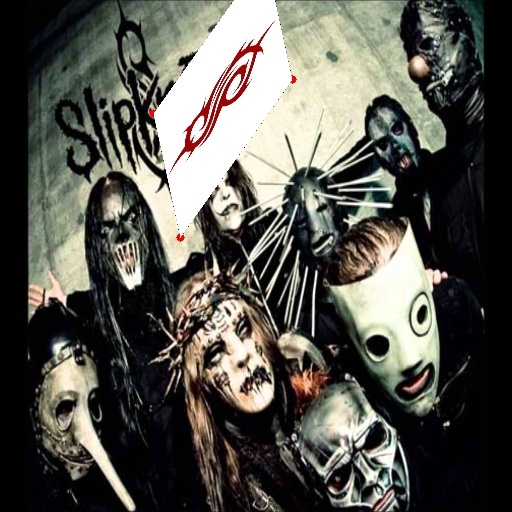
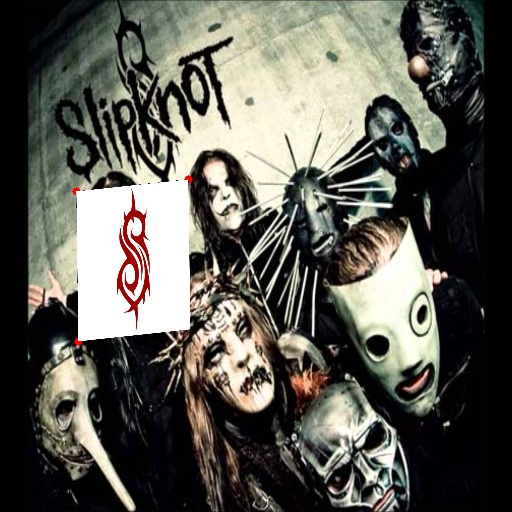
mas modificaciones

Changed region(s): [[0.125, 0.0, 0.5938, 0.6875]]

diff --git a/vision/TP3_final.py b/vision/TP3_final.py
@@ -5,34 +5,44 @@ import numpy as np
 import cv2
 import copy
 from sys import argv
+#pop up---------------------------------------------------
+import ctypes  # para el mensaje de info
+tutorial = 'Seleccionar puntos en el siguiente orden:\n\n\n Primer Punto: Esquina superior izquierda. \n\n Segundo Punto: Esquina superior derecha \n\n Tercer Punto: Esquina inferior izquierda \n\n Cuarto Punto: Esquina inferior derecha. '
 
-if len(argv) >= 3:
+def Mbox(title, text, style):
+    return ctypes.windll.user32.MessageBoxW(0, text, title, style)
+Mbox('INFO', tutorial, 0)
+#fin pop up ----------------------------------------------
+
+if len(argv) >= 2:
     #por si se quiere poner otra imagen, poner el path o ubicarla en el directorio
-    imagen_entrada1, imagen_entrada2 = argv[1], argv[2]
+    imagen_entrada1 = argv[1]
 else:
     #imagen por default
-    imagen_entrada1, imagen_entrada2 = 'slipknot.jpg', 'logo.jpg'
+    imagen_entrada1 = 'slipknot.jpg'
+
 
 #colores
 blue = (255, 0, 0); green = (0, 255, 0); red = (0, 0, 255)
 H, W = 512, 512   #alto y ancho por defecto
 count  = 0        #contador de circulos en 0
 points = []       #caja para guardar puntos
-coords = [[-1,-1],[-1,-1],[-1,-1]] #coordenadas iniciales
+coords = [[-1,-1], [-1,-1], [-1,-1], [-1,-1]] #coordenadas iniciales
 
 #funcion para dibujar 3 puntos que se guardan
-def draw3dots(event, x, y, flags, param):
+def draw4dots(event, x, y, flags, param):
     global count, points, coords #toma el valor de las variables globales
     if event == cv2.EVENT_LBUTTONDOWN:
-        if (count == 3):  #si cuente tres circulos reseteo el mundo
+        if (count == 4):  #si cuente cuatro circulos reseteo el mundo
             param[1] = copy.deepcopy(param[0])
             count = 0
         #toma coordenadas de los clicks
+        coords[3] = coords[2]
         coords[2] = coords[1]
         coords[1] = coords[0]
         coords[0] = x, y
         #abajo las guardo (float)
-        points = np.array([coords[2], coords[1], coords[0]]).astype(np.float32)
+        points = np.array([coords[3], coords[2], coords[1], coords[0]]).astype(np.float32)
         cv2.circle(param[1], (x, y), 4, red, -1) #dibuja circulos
         count = count + 1                        #contador de circulos
 
@@ -55,33 +65,31 @@ def overlay(warp, original):
     img2_fg = cv2.bitwise_and(original, original, mask = mask_not)  #hace and con la original y la mascara de unos
     dst = cv2.add(img1_bg, img2_fg)                                 #suma
     cv2.imencode('.jpg', dst)[1].tofile('bastaaa.jpg')              #guardo la nueva porque si
-    cv2.imshow('Imagenes fusionadas', dst)                          #la muestroo
+    cv2.imshow('Imagen rectificada', dst)                           #la muestroo
 
 #captura y redimension de imagenes 
 img_orig = cv2.resize((cv2.imread(imagen_entrada1)), (H, W))
-img_aux  = cv2.resize((cv2.imread(imagen_entrada2)), (H, W))
 
 #copio la original y la guardo
 img_copy = copy.deepcopy(img_orig)
 param = [img_orig, img_copy] #creo un paquete en donde guardar una original y una copia
 
 #muestro en pantalla
-cv2.imshow('Imagen a fusionar', img_aux)
-cv2.imshow('Marcar 3 Puntos y apretar "g"', param[1])
+cv2.imshow('Marcar 4 Puntos, con "g" guardar', param[1])
 #activo callback y le paso la funcion + la original y la copia || preguntar porque anda acá y no necesariamente en el while*
-cv2.setMouseCallback('Marcar 3 Puntos y apretar "g"', draw3dots, param)
+cv2.setMouseCallback('Marcar 4 Puntos, con "g" guardar', draw4dots, param) #ya entendí porque se puede escribir aca y no en el while
 
 #loop
 while (1):
-    cv2.imshow('Marcar 3 Puntos y apretar "g"', param[1])                             #siempre muestro la copia, en donde trabajo
+    cv2.imshow('Marcar 4 Puntos, con "g" guardar', param[1])            #siempre muestro la copia, en donde trabajo
     k = cv2.waitKey(1) & 0xFF                                           #cosas de teclado
     if k == ord('g'):                                                   #ord es para que agarre bien
-        points2 = np.array([[0, 0], [img_aux.shape[1],0], [0, img_aux.shape[1]]]).astype(np.float32)  #guardo tres puntos (float) de la img_aux
-        warp_mat = cv2.getAffineTransform(points2, points)  #se obtiene matriz que deforma de los tres puntos de img_aux, a los tres puntos click
-        warp_dst = cv2.warpAffine(img_aux, warp_mat, (H,W)) #aplico la transformada afin a la img_aux y la muestro
+        points2 = np.array([[0, 0], [img_orig.shape[1], 0], [0, img_orig.shape[1]], [img_orig.shape[0], img_orig.shape[1]]]).astype(np.float32)  #guardo cuatro puntos (float) de la img_aux
+        warp_mat = cv2.getPerspectiveTransform(points, points2)  #se obtiene matriz que deforma de los cuatro puntos de img_aux, a los cuatro puntos click
+        warp_dst = cv2.warpPerspective(param[1], warp_mat, (H,W)) #aplico la transformada afin a la img_aux y la muestro
         cv2.imshow('warpeada', warp_dst)
-        overlay(warp_dst, param[1]) #funcion que come warpeada y copia y deshecha warpeada+copia
         param[1] = copy.deepcopy(param[0]) #reestablezco copia a original
     elif k == 27: #sale con escape
         break
 cv2.destroyAllWindows()
+#a futuro agregar un point sorter para que no haya que hacerlo en una manera en específica
